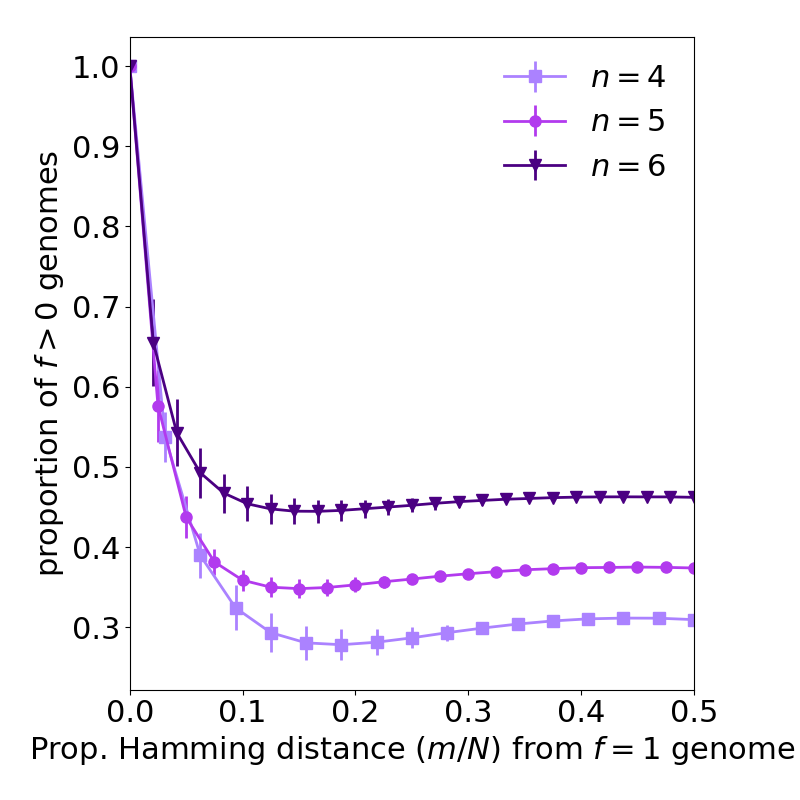
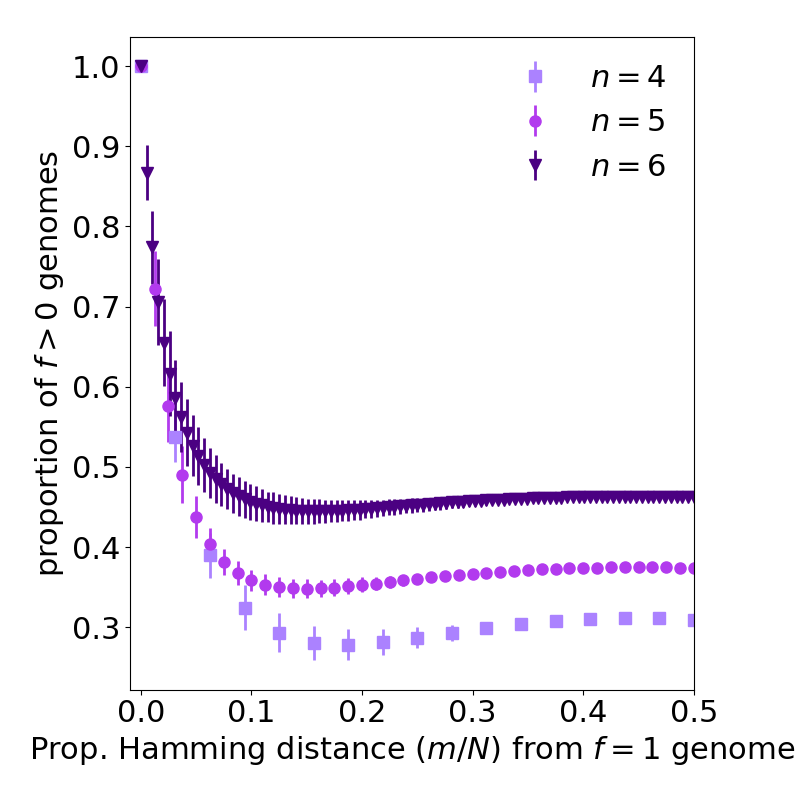
Adds a readme about which scripts generate which figures

diff --git a/paper/Wilson2018PCB.tex b/paper/Wilson2018PCB.tex
@@ -593,18 +593,18 @@ Kauffman SA (1993) The origins of order: {S}elf-organization and selection in
 \begin{figure}
 \begin{center}
 \includegraphics[width=0.7\textwidth,clip=true,trim=0cm 0cm 0cm 0cm]{../simsj/plot/fitness_increases_gradually_ff4.png}
-\caption{\emph{Fitness
-    increases gradually towards the fitness peaks.} The average
-  fitness of genomes with non-zero fitness decreases linearly with
-  each mutation of the genome $m$. Thus, once evolution has entered
-  the vicinity of a fitness peak by un-directed search, a constant
-  gradient is available to guide evolution directly to the maximally
-  fit configuration of the genome. A good fit to the function $h(m,k)$, plotted
-  as solid curves, suggests that the smoothness of the
-  fitness landscape reflects that genomes with non-zero fitness
-  comprise a certain set of boolean interactions that are specified by
-  a constant a constant number of binary variables ($k\approx 10$,
-  $k\approx 17$ and $k\approx 25$ for $n=4$, $n=5$ and $n=6$, respectively).}
+\caption{\emph{Fitness increases monotonically towards the fitness
+    peaks.} The average fitness of genomes with non-zero fitness
+  decreases exponentially with each mutation of the genome $m$. Thus,
+  once evolution has entered the vicinity of a fitness peak by
+  un-directed search, a monotonically increasing gradient is available
+  to guide evolution directly to the maximally fit configuration of
+  the genome. A good fit to the function $h(m,k)$, plotted as solid
+  curves, suggests that the smoothness of the fitness landscape
+  reflects that genomes with non-zero fitness comprise a certain set
+  of boolean interactions that are specified by a constant
+  number of binary variables ($k\approx 10$, $k\approx 17$ and
+  $k\approx 25$ for $n=4$, $n=5$ and $n=6$, respectively).}
 \label{fig:fitness_increases}
 \end{center}
 \end{figure}

diff --git a/simsj/plot/plot_smooth_fit_ff4.py b/simsj/plot/plot_smooth_fit_ff4.py
@@ -203,19 +203,19 @@ lw1 = 2
 logplot = False
 if logplot:
     m4y = np.log(m4_ff4_final[:,1])
-    m5y = np.log(m5_ff4_final[0::2,1])
-    m6y = np.log(m6_ff4_final[0::4,1])
+    m5y = np.log(m5_ff4_final[:,1])
+    m6y = np.log(m6_ff4_final[:,1])
 else:
     m4y = m4_ff4_final[:,1]
-    m5y = m5_ff4_final[0::2,1]
-    m6y = m6_ff4_final[0::4,1]
+    m5y = m5_ff4_final[:,1]
+    m6y = m6_ff4_final[:,1]
 
 plt.errorbar (m4_ff4_final[:,0]/32,     m4y, yerr=m4_ff4_final[:,2],
-              fmt='.', marker='s', markersize=ms1, linestyle='-', linewidth=lw1, color=c.mediumpurple1)
-plt.errorbar (m5_ff4_final[0::2,0]/80,  m5y, yerr=m5_ff4_final[0::2,2],
-              fmt='.', marker='o', markersize=ms1, linestyle='-', linewidth=lw1, color=c.darkorchid2)
-plt.errorbar (m6_ff4_final[0::4,0]/192, m6y, yerr=m6_ff4_final[0::4,2],
-              fmt='.', marker='v', markersize=ms1, linestyle='-', linewidth=lw1, color=c.indigo)
+              fmt='.', marker='s', markersize=ms1, linestyle='None', linewidth=lw1, color=c.mediumpurple1)
+plt.errorbar (m5_ff4_final[:,0]/80,  m5y, yerr=m5_ff4_final[:,2],
+              fmt='.', marker='o', markersize=ms1, linestyle='None', linewidth=lw1, color=c.darkorchid2)
+plt.errorbar (m6_ff4_final[:,0]/192, m6y, yerr=m6_ff4_final[:,2],
+              fmt='.', marker='v', markersize=ms1, linestyle='None', linewidth=lw1, color=c.indigo)
 
 # Best ks for h(m,k) fits:
 k4=10
@@ -256,7 +256,7 @@ else:
     f1.axes[0].set_ylabel('proportion of $f>0$ genomes',fontsize=fs)
     #f1.axes[0].set_ylim([-1.4,0])
 
-f1.axes[0].set_xlim([0,0.5])
+f1.axes[0].set_xlim([-0.01,0.5])
 #plt.xticks(np.arange(0, 0.65, 0.05))
 
 plt.legend(('$n=4$','$n=5$','$n=6$'),frameon=False)

diff --git a/simsj/plot/README.md b/simsj/plot/README.md
@@ -1,0 +1,14 @@
+# Plotting scripts
+
+These scripts are used to plot some of the figures for the paper.
+
+Fig 3: plot_evolution_boolean_ff4.py (generates
+evolution_boolean_ff4.png)
+
+Figs. 4-6: plot_evospeed_ff4.py (generates
+distribution_evolutionary_histo_ff4.png,
+distribution_evolutionary_mean_vs_p_ff4.png and
+distribution_evolutionary_slope_vs_p_ff4.png)
+
+Fig 7-8: plot_smooth_fit_ff4.py (generates smooth_fit_ff4.png and
+fitness_increases_gradually_ff4.png)
